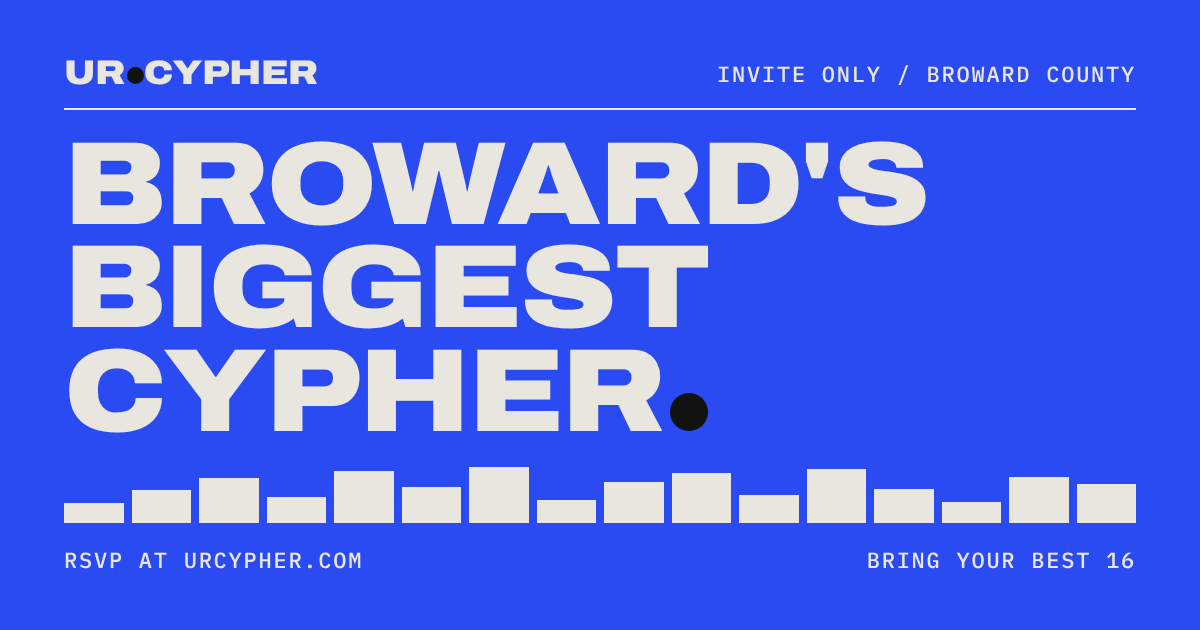
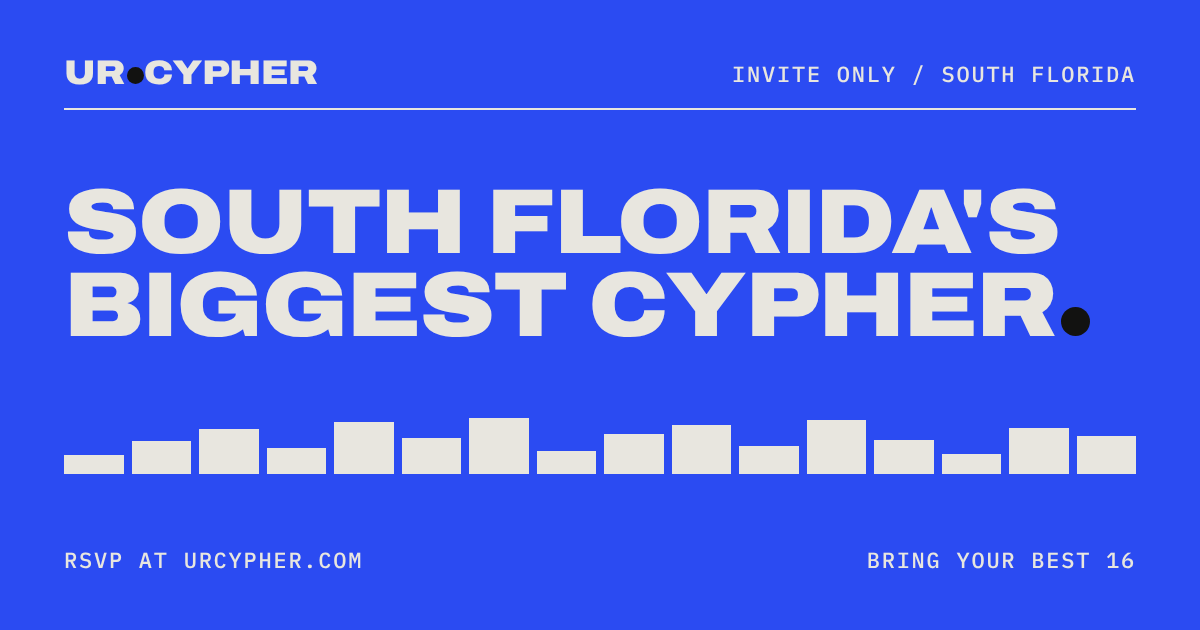
Change Broward to South Florida in headline, tagline and share image
Claude-Session: https://claude.ai/code/session_01EhHx5zAmBNChJbLhavKES2

Changed region(s): [[0.0308, 0.2111, 0.9558, 0.8444], [0.5858, 0.0905, 0.9558, 0.1508]]

diff --git a/public/index.html b/public/index.html
@@ -3,13 +3,13 @@
 <head>
 <meta charset="utf-8">
 <meta name="viewport" content="width=device-width, initial-scale=1, viewport-fit=cover">
-<title>URCypher | Broward's Biggest Cypher</title>
-<meta name="description" content="Broward's biggest cypher, an Urban Relations production. Rappers, singers, dancehall, reggae, pop and bouyon artists: apply for a spot in the circle. Invite only.">
+<title>URCypher | South Florida's Biggest Cypher</title>
+<meta name="description" content="South Florida's biggest cypher, an Urban Relations production. Rappers, singers, dancehall, reggae, pop and bouyon artists: apply for a spot in the circle. Invite only.">
 <link rel="canonical" href="https://urcypher.com/">
 <meta name="theme-color" content="#2B4BF2">
 <meta property="og:type" content="website">
 <meta property="og:site_name" content="URCypher">
-<meta property="og:title" content="URCypher | Broward's Biggest Cypher">
+<meta property="og:title" content="URCypher | South Florida's Biggest Cypher">
 <meta property="og:description" content="Invite only. Apply for a spot in the circle. Date and location go to confirmed artists only.">
 <meta property="og:url" content="https://urcypher.com/">
 <meta property="og:image" content="https://urcypher.com/og-image.png">
@@ -35,8 +35,8 @@
   </div>
 
   <div class="wrap hero__body">
-    <p class="mono">Invite only / Broward County</p>
-    <h1 class="hero__title">Broward's<br>biggest<br>cypher<span class="dot dot--ink" aria-hidden="true"></span></h1>
+    <p class="mono">Invite only / South Florida</p>
+    <h1 class="hero__title">South<br>Florida's<br>biggest<br>cypher<span class="dot dot--ink" aria-hidden="true"></span></h1>
     <div class="hero__row">
       <p class="hero__lede">Rappers, singers, dancehall, reggae, pop and bouyon artists. Apply for a spot in the circle. The date and location go out privately, only to artists our team has confirmed.</p>
       <a class="cta" href="#rsvp"><span class="cta__label">Request your spot</span><span class="cta__arrow" aria-hidden="true"><svg viewBox="0 0 24 24" width="28" height="28" fill="none" stroke="currentColor" stroke-width="3" stroke-linecap="square"><path d="M12 3v17M5 13l7 7 7-7"/></svg></span></a>
@@ -187,7 +187,7 @@
 <footer class="foot">
   <div class="wrap foot__row">
     <span class="mark mark--foot">UR<span class="dot dot--blue" aria-hidden="true"></span><br>Cypher</span>
-    <p class="mono foot__meta">An Urban Relations production<br>Invite only / Broward County</p>
+    <p class="mono foot__meta">An Urban Relations production<br>Invite only / South Florida</p>
   </div>
 </footer>
 

diff --git a/README.md b/README.md
@@ -1,6 +1,6 @@
 # URCypher.com
 
-The RSVP site for URCypher, Broward's Biggest Cypher, an Urban Relations production. One page; every RSVP lands in a Google Sheet.
+The RSVP site for URCypher, South Florida's Biggest Cypher, an Urban Relations production. One page; every RSVP lands in a Google Sheet.
 
 ```
 public/                     The website
